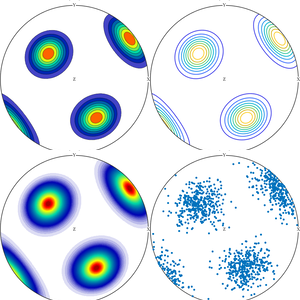
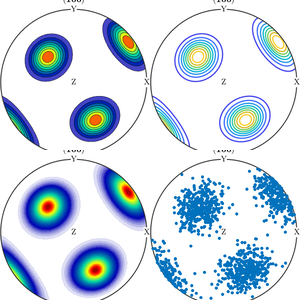
doc: ship the overview as one image per section, not a table of tiles
The tiles did not display. publish found them and emitted an src, but a
|| table is published cell by cell and injected as raw html, so the
stylesheet template that rewrites <img src> never matched them - and
that template is what turns a bare file name into the images/ path the
website serves from. Generated figures and ordinary <<file.png>>
includes go through it and work; anything inside a table cannot.

Rather than patch makeTable in the makeDoc repository, each section now
ships as a single labelled strip built with montage and included the
ordinary way, so the path is rewritten correctly in both builds. The
chapter names are baked into the image and repeated underneath as links.

The published page now emits inline_image.html includes, which is what
the working images on every other page use.

diff --git a/doc/Documentation.m b/doc/Documentation.m
@@ -18,52 +18,45 @@
 %
 % How to run MTEX at all, and how to make it draw things.
 %
-% || <<chapter_Tutorials.png>> || <<chapter_GeneralConcepts.png>> || <<chapter_Plotting.png>> ||
-% || <Tutorials.html Tutorials> || <GeneralConcepts.html General Concepts> || <Plotting.html Plotting> ||
+% <<group_StartHere.png>>
+%
+% <Tutorials.html Tutorials>, <GeneralConcepts.html General Concepts>, <Plotting.html Plotting>
 %
 %% Geometry
 %
 % Directions, rotations, symmetry, and the orientation of one crystal in one
 % specimen. Everything else is built on these.
 %
-% || <<chapter_Vectors.png>> || <<chapter_Rotations.png>> || <<chapter_CrystalGeometry.png>> ||
-% || <Vectors.html Vectors> || <Rotations.html Rotations> || <CrystalGeometry.html Crystal Geometry> ||
+% <<group_Geometry.png>>
 %
-% || <<chapter_CrystalOrientations.png>> || <<chapter_Misorientations.png>> ||
-% || <CrystalOrientations.html Orientations> || <Misorientations.html Misorientations> ||
+% <Vectors.html Vectors>, <Rotations.html Rotations>, <CrystalGeometry.html Crystal Geometry>, <CrystalOrientations.html Orientations>, <Misorientations.html Misorientations>
 %
 %% Orientation maps
 %
 % Measuring orientations point by point across a surface, and turning the
 % result into grains, boundaries and volumes.
 %
-% || <<chapter_EBSDAnalysis.png>> || <<chapter_Grains.png>> || <<chapter_GrainBoundaries.png>> ||
-% || <EBSDAnalysis.html EBSD> || <Grains.html Grains> || <GrainBoundaries.html Grain Boundaries> ||
+% <<group_Maps.png>>
 %
-% || <<chapter_EBSD3Analysis.png>> ||
-% || <EBSD3Analysis.html 3D - EBSD> ||
+% <EBSDAnalysis.html EBSD>, <Grains.html Grains>, <GrainBoundaries.html Grain Boundaries>, <EBSD3Analysis.html 3D - EBSD>
 %
 %% Texture
 %
 % Describing a whole population of orientations rather than one crystal, and
 % the mathematics that makes it computable.
 %
-% || <<chapter_PoleFigureAnalysis.png>> || <<chapter_ODFAnalysis.png>> ||
-% || <PoleFigureAnalysis.html Pole Figures> || <ODFAnalysis.html ODF> ||
+% <<group_Texture.png>>
 %
-% || <<chapter_SphericalFunctions.png>> || <<chapter_SO3Functions.png>> ||
-% || <SphericalFunctions.html Spherical Functions> || <SO3Functions.html Orientation Functions> ||
+% <PoleFigureAnalysis.html Pole Figures>, <ODFAnalysis.html ODF>, <SphericalFunctions.html Spherical Functions>, <SO3Functions.html Orientation Functions>
 %
 %% Material properties
 %
 % What the texture implies for how the material behaves - how stiff it is,
 % how sound travels through it, how it deforms and how it transforms.
 %
-% || <<chapter_Tensors.png>> || <<chapter_Elasticity.png>> || <<chapter_Plasticity.png>> ||
-% || <Tensors.html Tensors> || <Elasticity.html Elasticity> || <Plasticity.html Plasticity> ||
+% <<group_Properties.png>>
 %
-% || <<chapter_PhaseTransitions.png>> ||
-% || <PhaseTransitions.html Phase Transitions> ||
+% <Tensors.html Tensors>, <Elasticity.html Elasticity>, <Plasticity.html Plasticity>, <PhaseTransitions.html Phase Transitions>
 %
 %% These pages are scripts
 %

diff --git a/doc/makeDoc/makeChapterThumbnails.m b/doc/makeDoc/makeChapterThumbnails.m
@@ -74,6 +74,48 @@ for k = 1:numel(names)
 end
 close all
 
+% the overview page uses one image per section, not the individual tiles
+makeGroups(outDir)
+
+end
+
+% -------------------------------------------------------------------------
+function makeGroups(outDir)
+% assemble the per chapter tiles into one labelled strip per section
+%
+% The overview page cannot put the tiles in a table. makeTable publishes
+% each cell on its own and injects the result as raw html, so the stylesheet
+% template that rewrites <img src> - adding the images/ prefix the website
+% serves from - never sees it, and every tile in a table 404s. A plain
+% <<file.png>> include does go through that template, so each section is
+% shipped as a single image instead.
+
+groups = {
+  'StartHere',  {'Tutorials','GeneralConcepts','Plotting'}, ...
+                {'Tutorials','General Concepts','Plotting'}
+  'Geometry',   {'Vectors','Rotations','CrystalGeometry','CrystalOrientations','Misorientations'}, ...
+                {'Vectors','Rotations','Crystal Geometry','Orientations','Misorientations'}
+  'Maps',       {'EBSDAnalysis','Grains','GrainBoundaries','EBSD3Analysis'}, ...
+                {'EBSD','Grains','Grain Boundaries','3D EBSD'}
+  'Texture',    {'PoleFigureAnalysis','ODFAnalysis','SphericalFunctions','SO3Functions'}, ...
+                {'Pole Figures','ODF','Spherical Functions','Orientation Functions'}
+  'Properties', {'Tensors','Elasticity','Plasticity','PhaseTransitions'}, ...
+                {'Tensors','Elasticity','Plasticity','Phase Transitions'}
+  };
+
+for g = 1:size(groups,1)
+  files = '';
+  for k = 1:numel(groups{g,2})
+    files = [files sprintf(' -label "%s" "%s"',groups{g,3}{k},...
+      fullfile(outDir,['chapter_' groups{g,2}{k} '.png']))]; %#ok<AGROW>
+  end
+  out = fullfile(outDir,['group_' groups{g,1} '.png']);
+  system(sprintf(['magick montage%s -tile %dx1 -geometry 200x200+6+6 ' ...
+    '-background white -fill black -font DejaVu-Sans -pointsize 15 "%s"'],...
+    files,numel(groups{g,2}),out));
+  fprintf('GROUP %s\n',groups{g,1});
+end
+
 end
 
 % -------------------------------------------------------------------------
